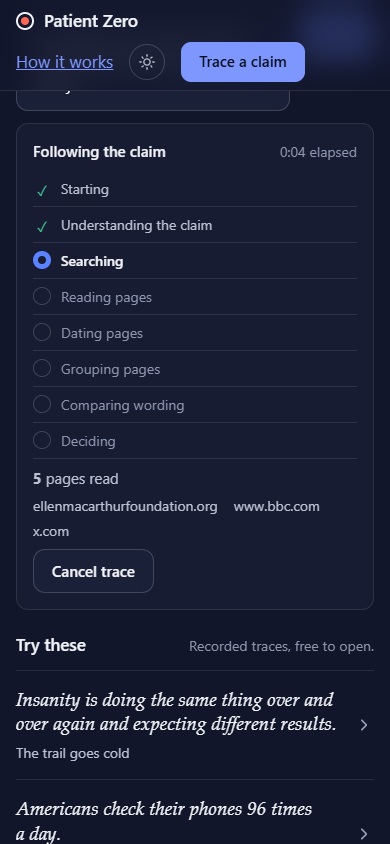
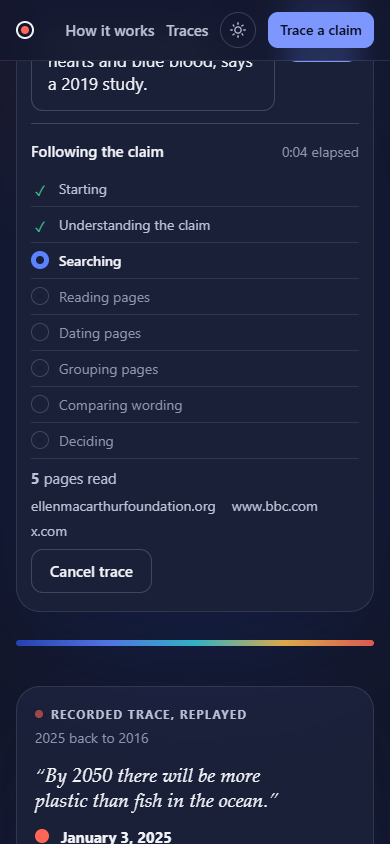
Claim box panels on hairlines inside the landing's hero card; refreshed live state screenshots

diff --git a/apps/web/src/styles/app.css b/apps/web/src/styles/app.css
@@ -82,3 +82,8 @@ body { isolation: isolate; }
   .trace-page .trace-timeline, .trace-page .trace-roots { margin-top: 36px; padding-top: 22px; }
   .trace-page .recent-traces { padding: 20px 0 0; }
 }
+
+/* The claim box's own panels (not traced yet, live progress, end states) sit inside the landing's hero card, so they
+   use hairlines rather than a second rounded box. */
+.claim-note .untraced { padding: 16px 0 4px; border: 0; border-top: 1px solid var(--line-2); border-radius: 0; background: none; box-shadow: none; }
+.claim-note .live-failure { padding-left: 14px; border-left: 2px solid var(--line-2); border-top: 0; }
